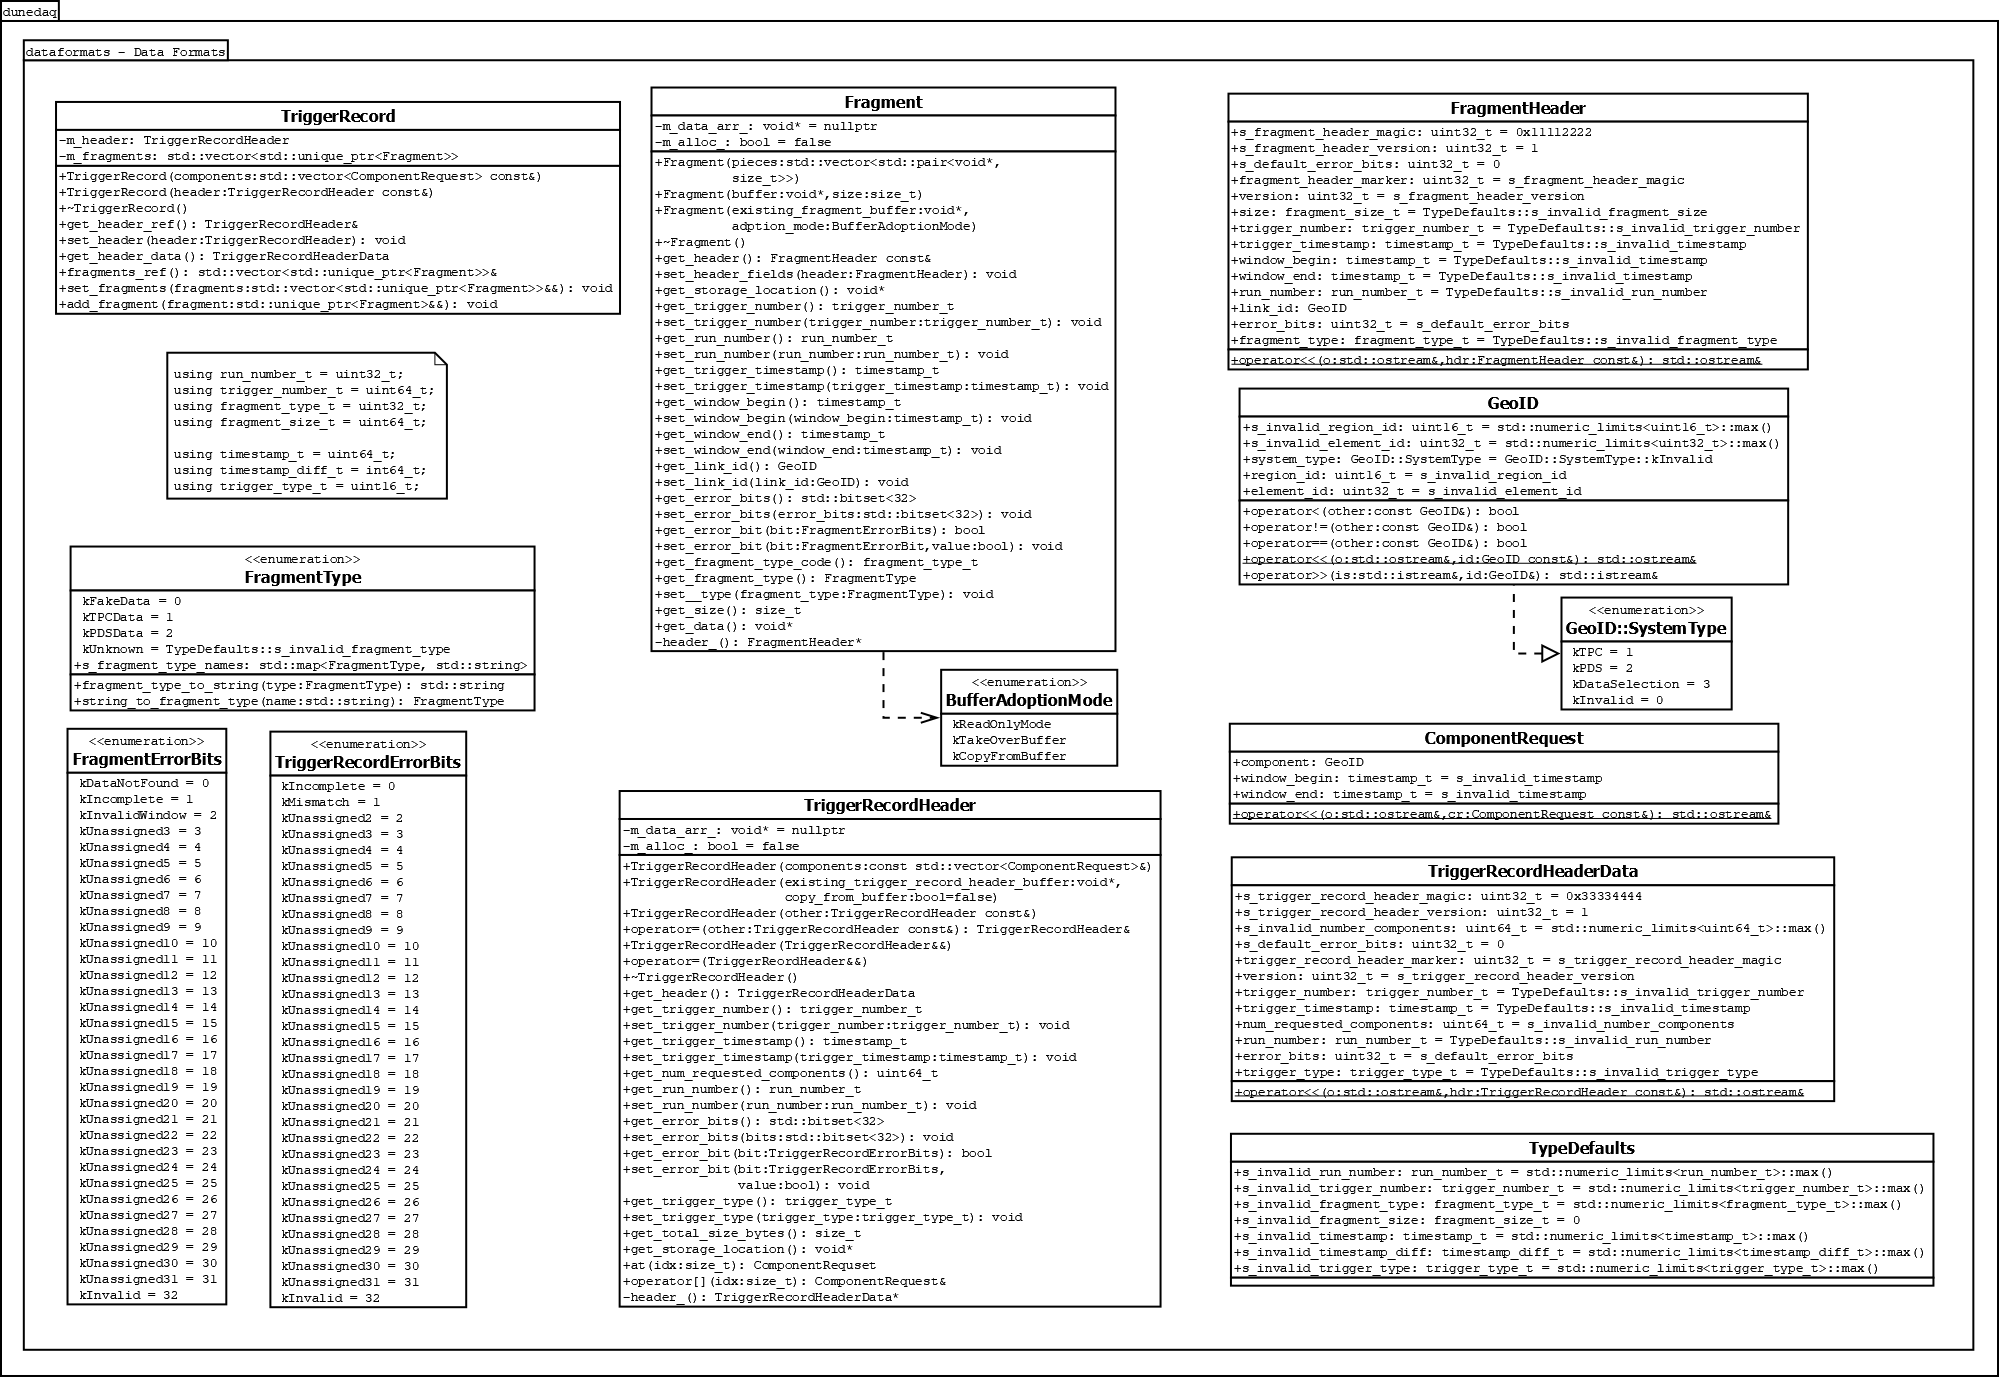
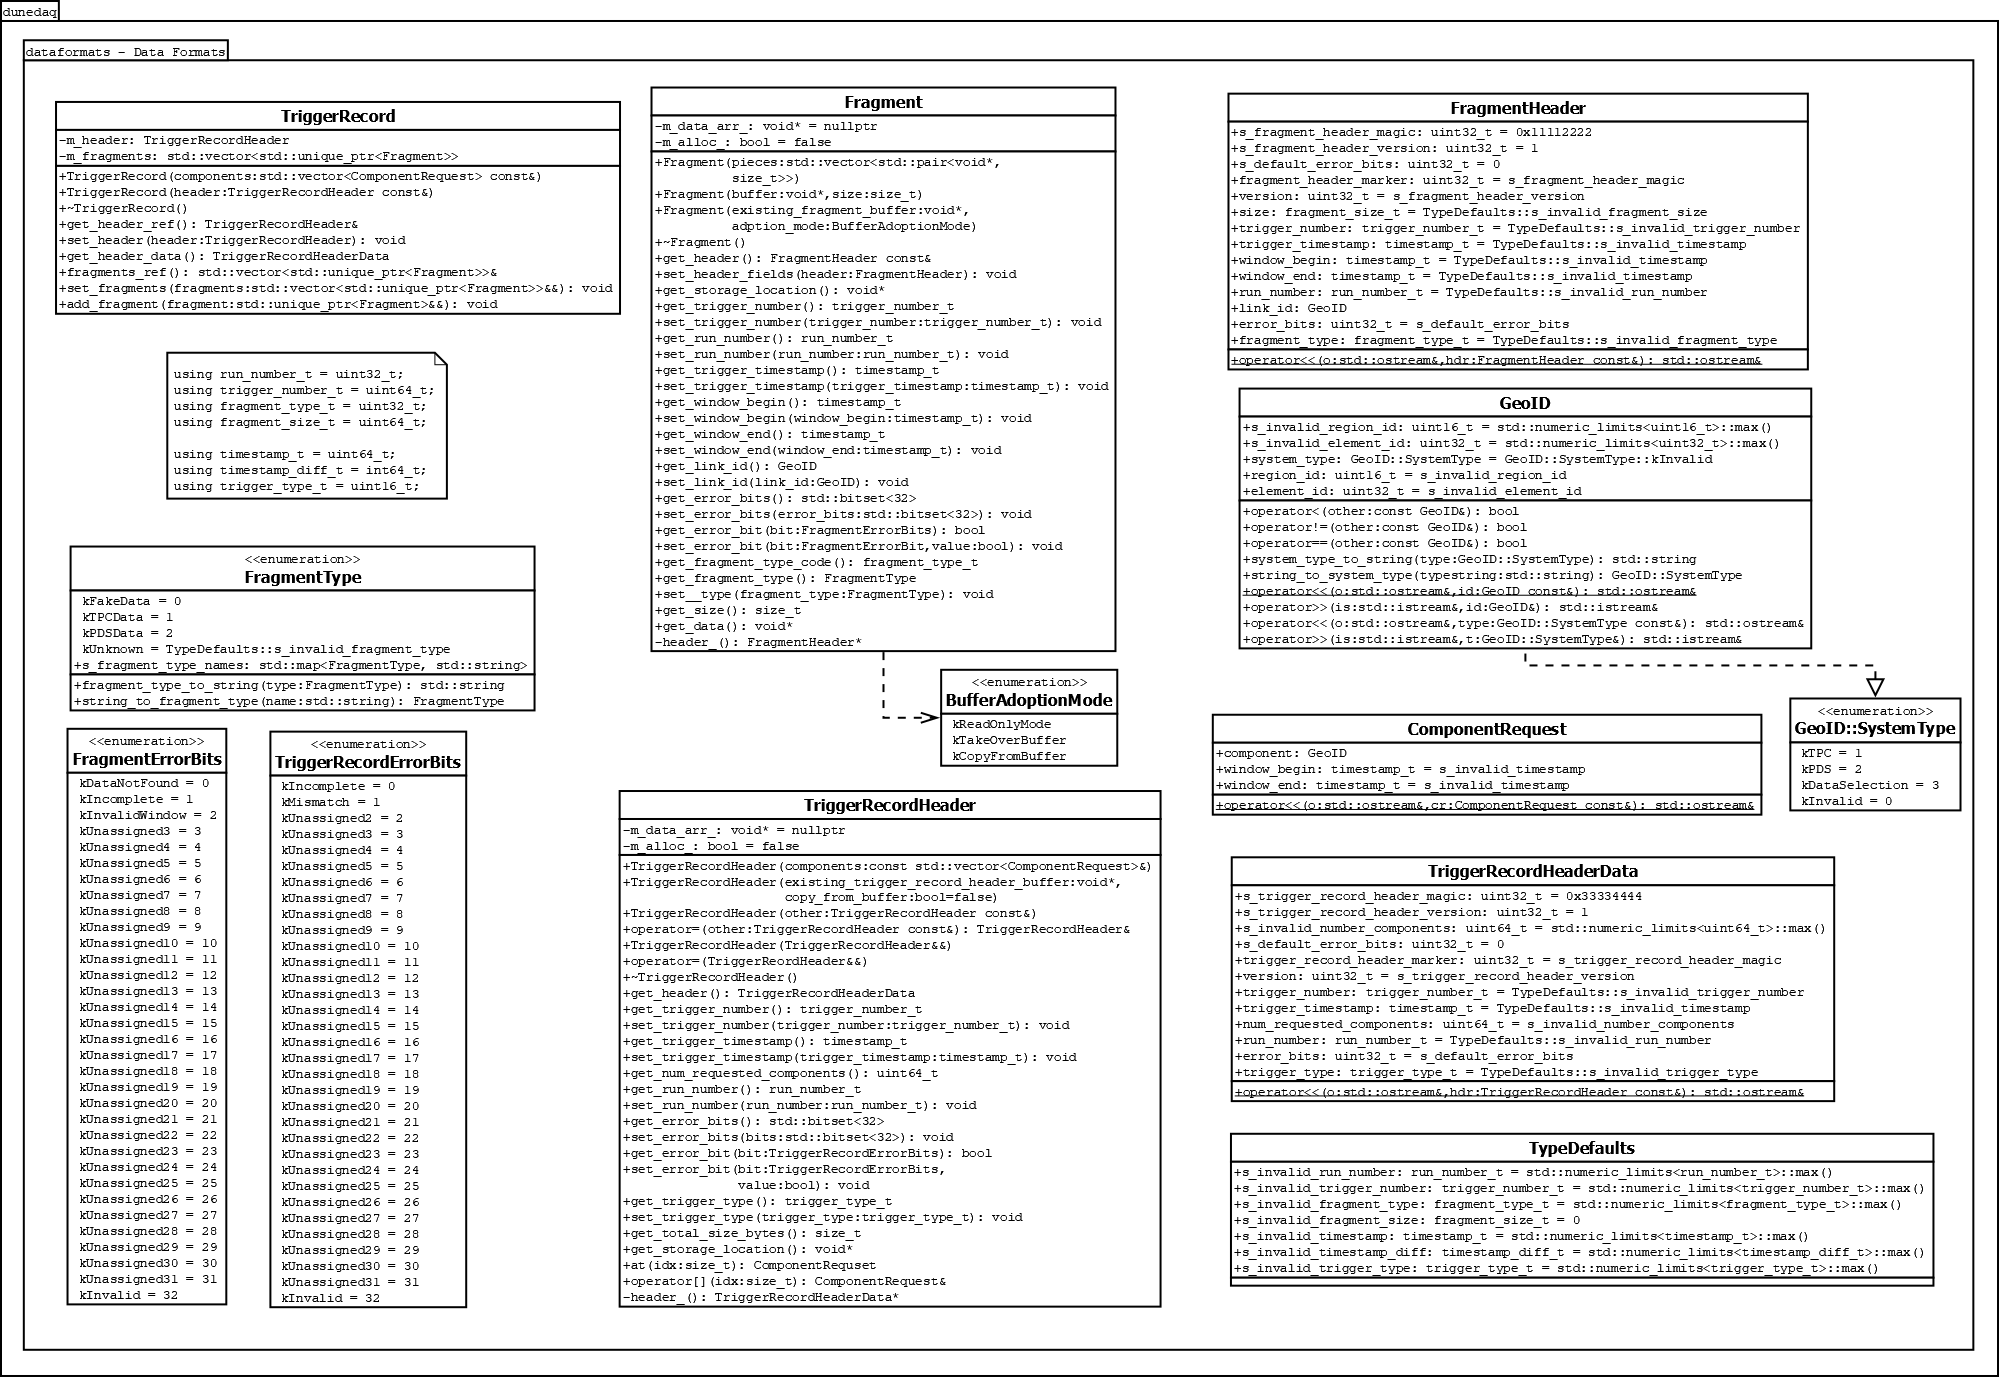
Add SystemType to- and from- string methods, use in stream operators.

Changed region(s): [[0.589, 0.406, 0.992, 0.6245], [0.744, 0.281, 0.775, 0.3123]]

diff --git a/include/dataformats/GeoID.hpp b/include/dataformats/GeoID.hpp
@@ -81,6 +81,31 @@ struct GeoID
    * @return The result of std::tuple compare using GeoID fields
    */
   bool operator==(const GeoID& other) const noexcept { return !((*this) != other); }
+
+  static std::string system_type_to_string(SystemType type)
+  {
+    switch (type) {
+      case SystemType::kTPC:
+        return "TPC";
+      case SystemType::kPDS:
+        return "PDS";
+      case SystemType::kDataSelection:
+        return "DataSelection";
+      case SystemType::kInvalid:
+        return "Invalid";
+    }
+    return "Unknown";
+  }
+  static SystemType string_to_system_type(std::string typestring)
+  {
+    if (typestring.find("TPC") == 0)
+      return SystemType::kTPC;
+    if (typestring.find("PDS") == 0)
+      return SystemType::kPDS;
+    if (typestring.find("DataSelection") == 0)
+      return SystemType::kDataSelection;
+    return SystemType::kInvalid;
+  }
 };
 
 /**
@@ -92,7 +117,7 @@ struct GeoID
 inline std::ostream&
 operator<<(std::ostream& o, GeoID::SystemType const& type)
 {
-  return o << static_cast<uint16_t>(type);
+  return o << GeoID::system_type_to_string(type);
 }
 /**
  * @brief Stream a GeoID instance in a human-readable form
@@ -103,9 +128,25 @@ operator<<(std::ostream& o, GeoID::SystemType const& type)
 inline std::ostream&
 operator<<(std::ostream& o, GeoID const& id)
 {
-  return o << "type: " << id.system_type << ", region:" << id.region_id << ", element: " << id.element_id;
+  return o << "type: " << id.system_type << ", region: " << id.region_id << ", element: " << id.element_id;
 }
 
+/**
+ * @brief Read a GeoID::SystemType from a string stream
+ * @param is Stream to read from
+ * @param id SystemType to fill
+ * @return Stream instance for further streaming
+ */
+inline std::istream&
+operator>>(std::istream& is, GeoID::SystemType& t)
+{
+  std::string tmp;
+  is >> tmp;
+
+  t = GeoID::string_to_system_type(tmp);
+
+  return is;
+}
 /**
  * @brief Read a GeoID from a string stream
  * @param is Stream to read from
@@ -116,10 +157,7 @@ inline std::istream&
 operator>>(std::istream& is, GeoID& id)
 {
   std::string tmp;
-  uint16_t type_temp;
-  is >> tmp >> type_temp >> tmp >> tmp >> id.region_id >> tmp >> tmp >> id.element_id;
-
-  id.system_type = static_cast<GeoID::SystemType>(type_temp);
+  is >> tmp >> id.system_type >> tmp >> id.region_id >> tmp >> tmp >> id.element_id;
 
   return is;
 }
